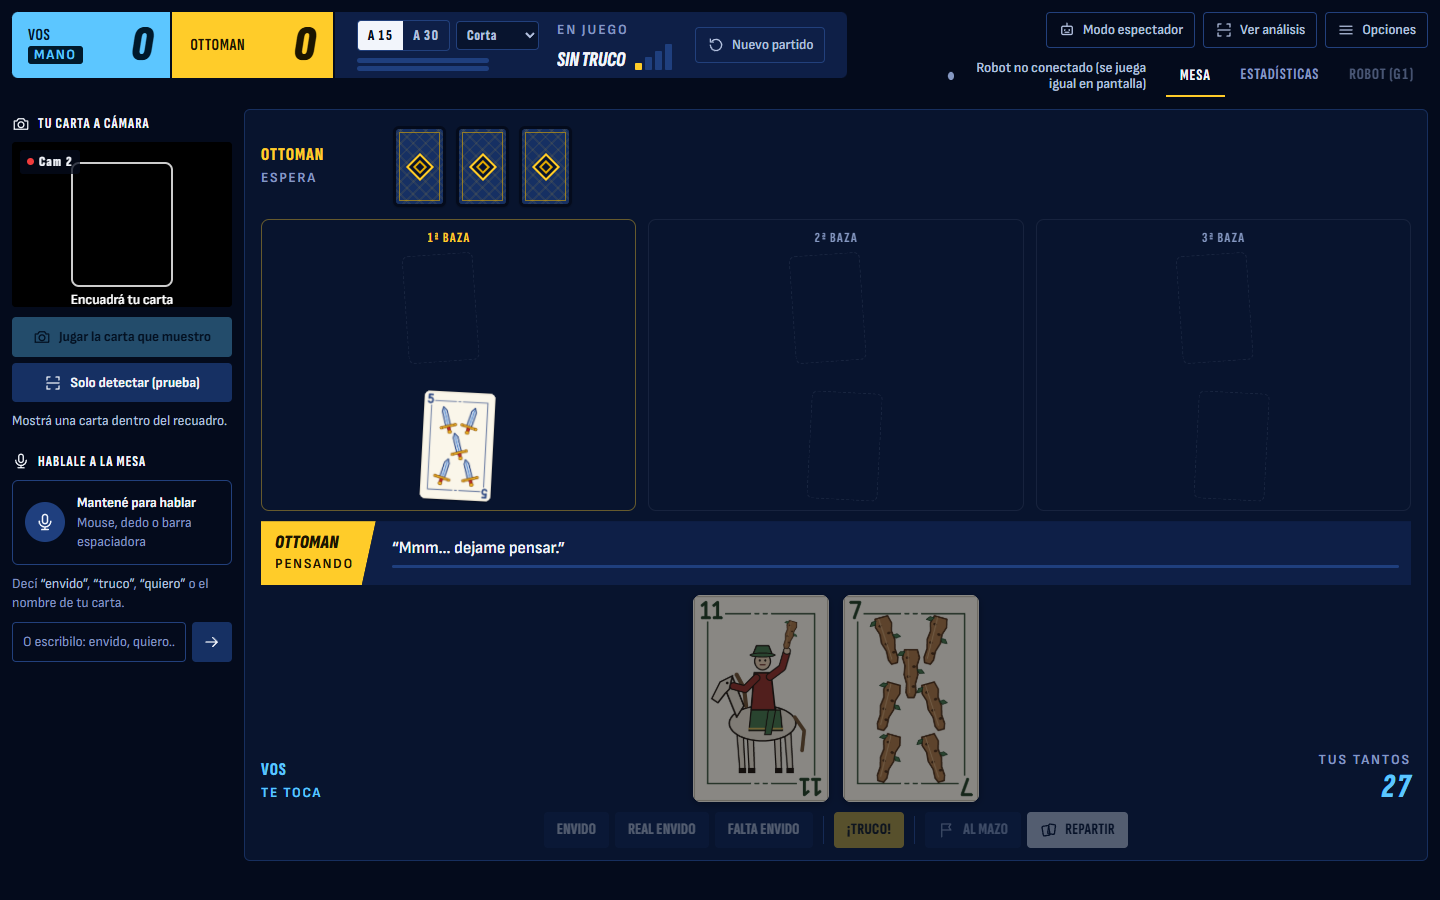
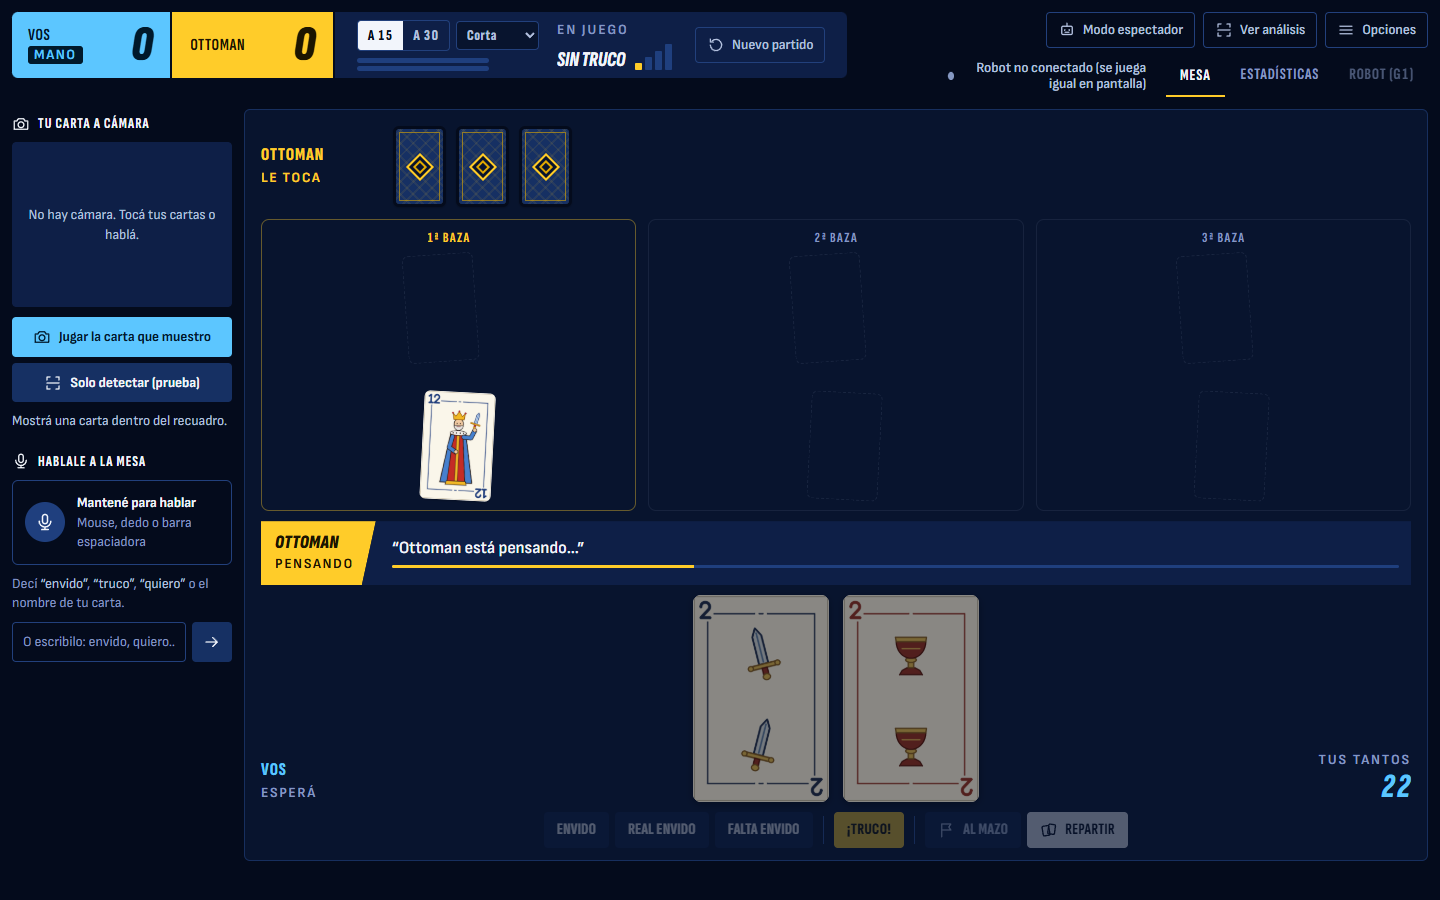
Polish spectator menus and refresh verified UI screenshots
Document the UI merge, preserve asynchronous robot turn labels, and keep the speed controls readable inside Opciones.

diff --git a/proyecto/voz.html b/proyecto/voz.html
@@ -161,7 +161,7 @@
   .sel-manos.activa { background: var(--txt); color: var(--ink-0); }
   .manos-texto { font-family: var(--display); font-weight: 800; font-size: 15px; letter-spacing: 0.06em; text-transform: uppercase; color: var(--txt-2); }
   .seg-vel { flex-shrink: 0; }
-  .seg-vel button { font-size: 13px; padding: 4px 8px; }
+  .seg-vel button { font-size: 16px; padding: 8px 12px; }
   .seg-vel .por { font-family: system-ui, sans-serif; font-weight: 600; }
   .track { position: relative; width: 132px; display: grid; gap: 3px; }
   .track span { display: block; height: 5px; background: var(--ink-4); border-radius: 3px; overflow: hidden; }
@@ -824,6 +824,7 @@
     display: flex; align-items: center; gap: 10px; width: 100%; min-height: 44px; padding: 8px 12px;
     background: transparent; border: 0; border-radius: 4px; cursor: pointer; text-align: left; color: var(--txt); font-size: 15px; font-weight: 600;
   }
+  .menu-velocidad { display: grid; gap: 6px; padding: 8px 12px; font-size: 15px; font-weight: 600; }
   .menu-item span { flex: 1; }
   .menu-item em { font-style: normal; font-weight: 800; color: var(--ok); }
   .menu-item[aria-pressed="false"] em { color: var(--txt-3); }
@@ -936,11 +937,14 @@
       <div class="menu">
         <button type="button" class="btn-ghost" id="btn-opciones" aria-haspopup="true" aria-expanded="false" aria-controls="menu-opciones"><svg class="i"><use href="#i-menu"/></svg>Opciones</button>
         <div class="menu-panel" id="menu-opciones" hidden>
-      <div class="seg seg-vel" id="sel-velocidad" role="group" aria-label="Velocidad de Ottoman" title="Velocidad de Ottoman">
-        <button type="button" data-vel="0.5" aria-pressed="false"><span class="por">×</span>0,5</button>
-        <button type="button" data-vel="1" aria-pressed="true"><span class="por">×</span>1</button>
-        <button type="button" data-vel="2" aria-pressed="false"><span class="por">×</span>2</button>
-      </div>
+          <div class="menu-velocidad">
+            <span id="velocidad-label">Velocidad de Ottoman</span>
+            <div class="seg seg-vel" id="sel-velocidad" role="group" aria-labelledby="velocidad-label">
+              <button type="button" data-vel="0.5" aria-pressed="false"><span class="por">×</span>0,5</button>
+              <button type="button" data-vel="1" aria-pressed="true"><span class="por">×</span>1</button>
+              <button type="button" data-vel="2" aria-pressed="false"><span class="por">×</span>2</button>
+            </div>
+          </div>
           <button type="button" class="menu-item toggle-voz" id="btn-tts" aria-pressed="true"><svg class="i"><use href="#i-vol"/></svg><span>Voz de Ottoman</span><em>Sí</em></button>
         </div>
       </div>

diff --git a/docs/ui-integration-verification.md b/docs/ui-integration-verification.md
@@ -1,0 +1,39 @@
+# Spectator UI integration verification
+
+Integrated `origin/feat/ia-entrenada` (including PR #49) and `origin/feat/ui-juego-espectador` into `feat/modo-espectador`; no PR was merged by this task.
+
+## Conflict resolution
+
+The base merge was clean. The UI merge conflicted in `proyecto/voz.html` (header controls and thinking lower third) and `proyecto/espectador.html` (match controls and visibility handlers). The resolution puts the speed and speech controls in Opciones, applies the new Más menu, and preserves shared `voz_robots.js`, asynchronous thinking/acting, speech toggles, speed handlers, hidden envido points, short matches, camera controls, and the rematch/poll-generation fixes.
+
+## Fixes
+
+- Human turn label gives `robot.ocupado` priority and says “Esperá”, including while a pending response exists; the active human styling also waits until the robot finishes.
+- Opciones contains the labeled ×0,5 / ×1 / ×2 selector beside Voz de Ottoman, with 16 px text; all three buttons were checked for the correct POST body to `/truco/ritmo`.
+- Spectator hand rows can wrap and cards use their intrinsic flex basis, reserving space for the lower thinking chip or moving it onto a complete row.
+
+## Browser verification
+
+Headless Microsoft Edge used `--mute-audio` and a context init script replacing `window.speechSynthesis.speak` with a no-op. Screenshots replay actual server snapshots to keep transient thinking states stable, including a spectator state after the first completed trick. Desktop viewport: 1440×900; mobile viewport: 390×844; screenshots include the whole page when vertical scrolling is needed.
+
+Every requested screen had document width equal to viewport width (1440 or 390), with no browser JavaScript errors. The lower chip's bounding box stayed inside the table: desktop x=938.58, width=120.42, table right=1076; mobile x=29, width=120.42, table right=378. Inline JavaScript syntax, duplicate static IDs, and `git diff --check` also passed. The Impeccable detector ran in degraded regex mode and reported inherited layout-animation warnings; browser checks supplied the layout evidence.
+
+Screenshots in `docs/screenshots/ui/` (both desk and mob):
+
+- `voz-desk-1-inicio.png`, `voz-mob-1-inicio.png`
+- `voz-desk-2-pensando.png`, `voz-mob-2-pensando.png`
+- `voz-desk-4-opciones.png`, `voz-mob-4-opciones.png`
+- `esp-desk-1-selector.png`, `esp-mob-1-selector.png`
+- `esp-desk-1b-selector-manos.png`, `esp-mob-1b-selector-manos.png`
+- `esp-desk-2-partida.png`, `esp-mob-2-partida.png`
+- `esp-desk-3-mas.png`, `esp-mob-3-mas.png`
+- `esp-desk-4-final.png`, `esp-mob-4-final.png`
+
+The screenshot server and an extra server started while checking CLI help were stopped. The server parses `--puerto=<port>` and `--sin-robot` directly rather than providing argparse help.
+
+## Full suite
+
+Command from the worktree root: `PYTHONPATH=proyecto py -m unittest discover -s proyecto -p "test*.py"` (PYTHONPATH set through PowerShell).
+
+Passed: 824 tests in 346.704 seconds; OK.
+
